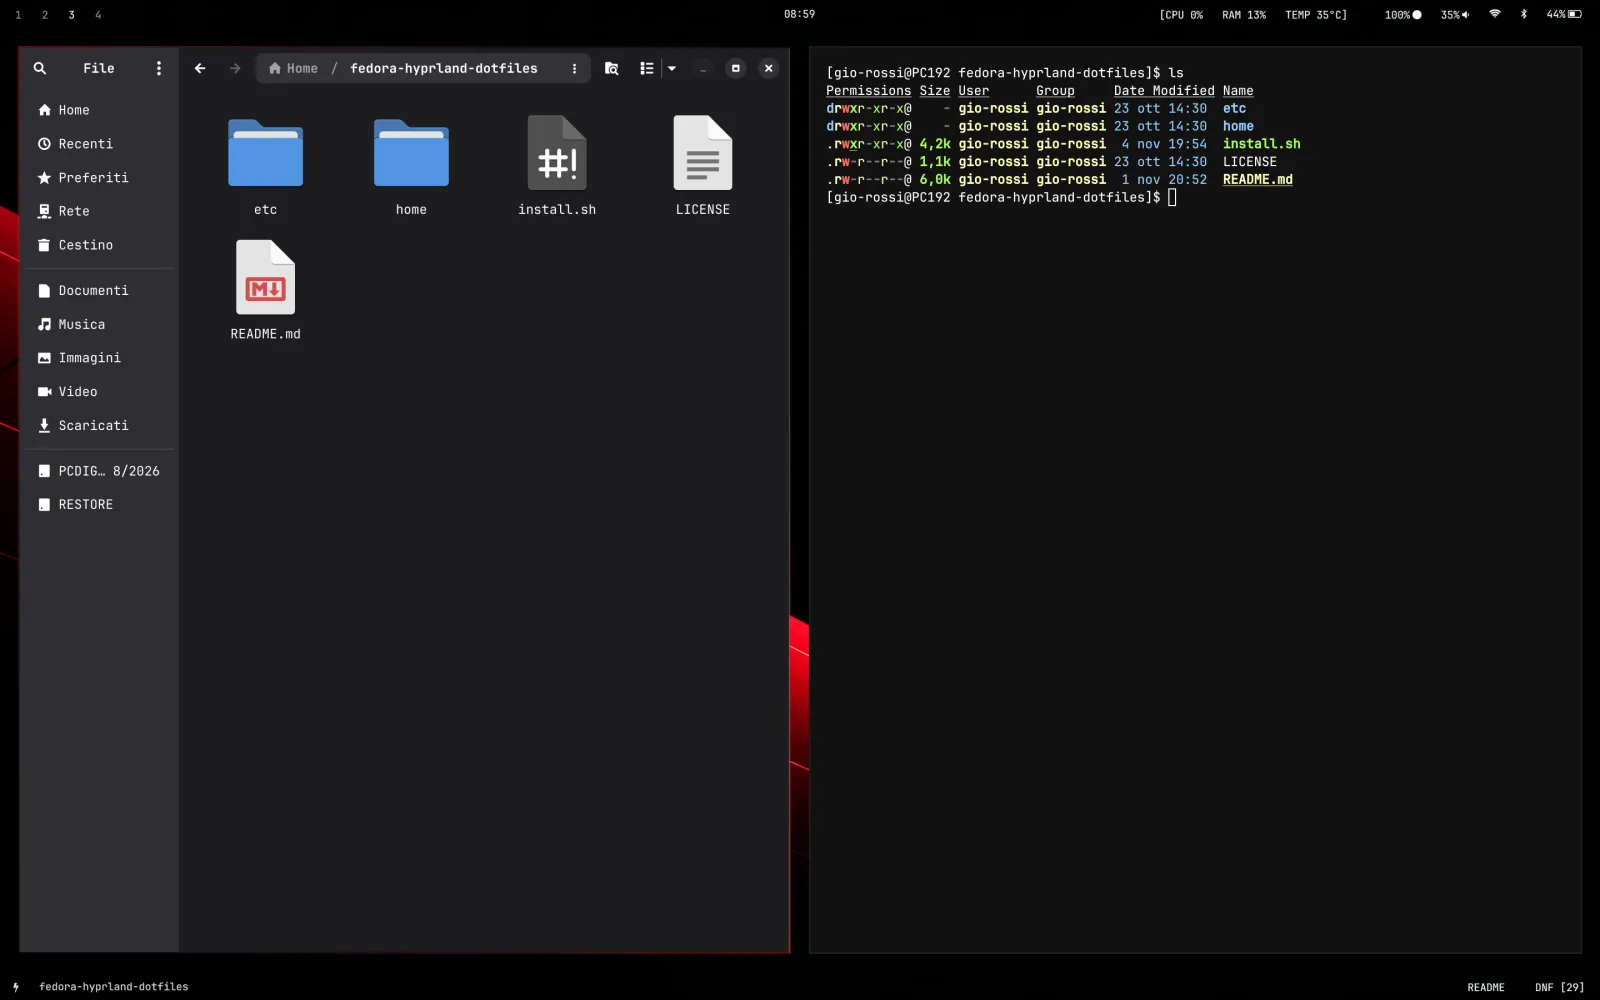
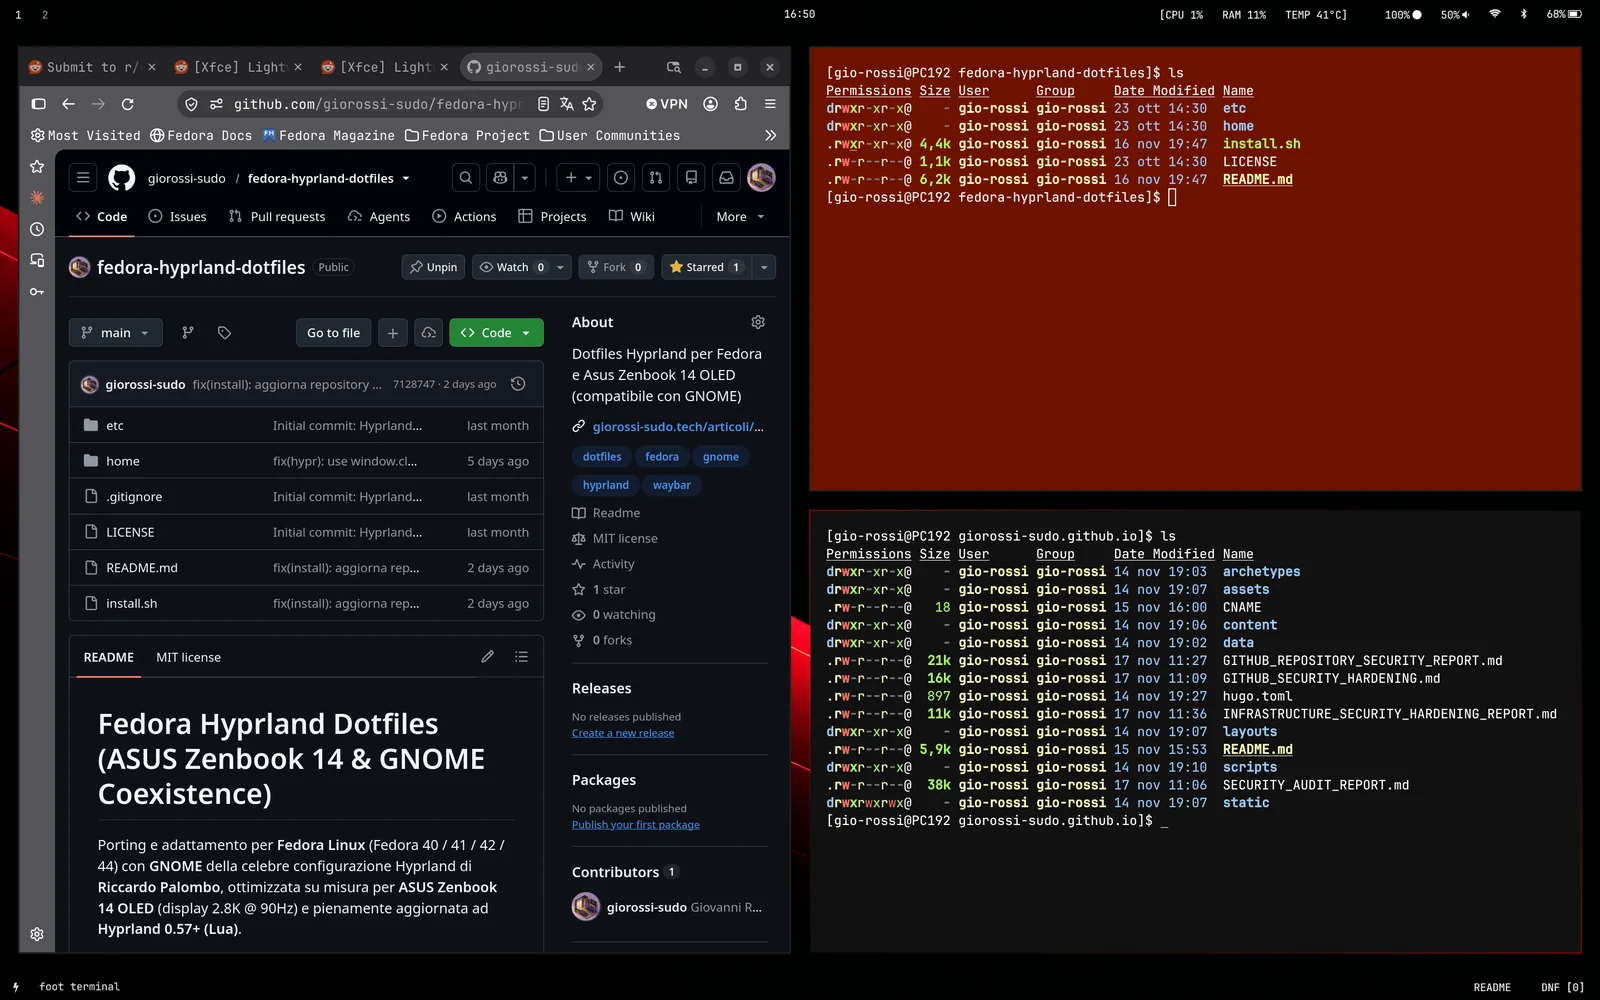
content: aggiorna screenshot articolo Fedora Hyprland Dotfiles

diff --git a/content/articoli/fedora-hyprland.md b/content/articoli/fedora-hyprland.md
@@ -2,13 +2,14 @@
 title: "Fedora Hyprland Dotfiles"
 description: "Configurazione di Hyprland per Fedora Linux: convivenza con GNOME, calibrazione per display OLED ASUS Zenbook 14 e guida all'installazione rapida."
 date: 2026-11-07T10:00:00+01:00
-lastmod: 2026-11-10T10:00:00+01:00
+lastmod: 2026-11-19T11:17:00+01:00
 url: "/articoli/fedora-hyprland.html"
 categoria: "Guida e approfondimento"
 eyebrow: "Guida e approfondimento"
 date_display: "7 novembre 2026"
-lastmod_prefix: "Aggiornato a"
-lastmod_display: "novembre 2026"
+lastmod_prefix: "Aggiornato il"
+lastmod_display: "19 novembre 2026"
+lastmod_iso: "2026-11-19"
 tags:
   - "Hyprland"
   - "Fedora"
@@ -16,7 +17,7 @@ tags:
 subtitle: "Un ambiente a finestre affiancate per Fedora Linux, progettato per convivere stabilmente con GNOME e calibrato per schermi moderni ad alta definizione."
 list_summary: 'Un ambiente a finestre affiancate per Fedora Linux basato su Hyprland 0.57+ (Lua) e doppia barra Waybar, progettato per convivere stabilmente con GNOME senza alterare <code>/etc/environment</code> e calibrato per il display OLED 2.8K dell''ASUS Zenbook 14.'
 hero_image: "images/hyprland-desktop.webp"
-hero_alt: "Desktop Hyprland su Fedora con barre Waybar in alto e in basso"
+hero_alt: "Desktop Hyprland su Fedora con doppia barra Waybar, Firefox sul repository GitHub e terminali Foot affiancati"
 repo_url: "https://github.com/giorossi-sudo/fedora-hyprland-dotfiles"
 repo_label: "Apri il repository fedora-hyprland-dotfiles su GitHub"
 repo_text: "Tutti i file di configurazione, lo script di installazione automatizzato e i dettagli completi sono pubblicati e liberamente consultabili su GitHub."
